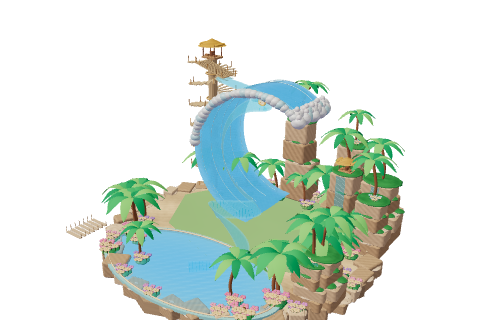
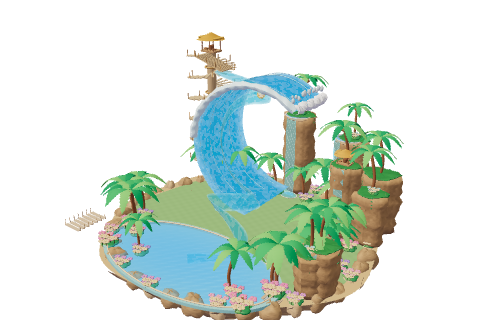
Connect cliff springs and keep departing guests exactly on their boat

Changed region(s): [[0.125, 0.0938, 0.8438, 1.0]]

diff --git a/public/showcase-water-props.js b/public/showcase-water-props.js
@@ -1,6 +1,8 @@
 import * as T from 'three';
 import {shape,line,torus,flowerCluster,teaPavilion,lantern,surfaceTexture} from './fantasy-scenery.js';
 import {showcaseWaterfallSteps as waterfallSteps} from './showcase-waterfalls.js';
+import {slideBasin} from './slide-water.js';
+import {slideBasinWater} from './slide-basin-optics.js';
 import {tropicalPalm,tropicalTree,flowerBank,sandstoneColumn,tropicalShore} from './showcase-water-landscape.js';
 const plankGeometry=new T.BoxGeometry(1,1,1);plankGeometry.userData.sharedScenery=true;
 const steel=new T.MeshStandardMaterial({color:0x789295,roughness:.35,metalness:.24});steel.userData.sharedScenery=true;
@@ -8,7 +10,7 @@ const crystalGeometry=new T.LatheGeometry([new T.Vector2(.72,-.5),new T.Vector2(
 // Distinct landscapes, authored against the actual route clearance. All helpers
 // build once into the existing material batch; waterfall buffers stay fixed.
 export function* showcaseProps(props,root,spec,route){
- const falls=[],obstacles=[],passages=[],margin=spec.radius+2.4,dry=[];for(const leg of route.legs)if(['board','climb'].includes(leg.phase))for(let i=0;i<=24;i++)dry.push(leg.fn(i/24).position);
+ const falls=[],springs=[],obstacles=[],passages=[],margin=spec.radius+2.4,dry=[];for(const leg of route.legs)if(['board','climb'].includes(leg.phase))for(let i=0;i<=24;i++)dry.push(leg.fn(i/24).position);
  const clear=(x,y,z,rx,ry,rz)=>!dry.some(p=>Math.abs(p[0]-x)<rx+4&&Math.abs(p[2]-z)<rz+4&&Math.abs(p[1]-y)<ry+3)&&!route.geometry.some(g=>g.samples.some((s,i)=>i%4===0&&Math.abs(s.p.x-x)<rx+margin&&Math.abs(s.p.z-z)<rz+margin&&Math.abs(s.p.y-spec.radius/2-y)<ry+margin));
  const solid=(kind,color,x,y,z,sx,sy,sz)=>{if(!clear(x,y,z,sx,sy,sz))return null;const m=shape(props,kind,color,x,y,z,sx,sy,sz);if(y-sy/2<1)obstacles.push({x,z,radius:Math.max(sx,sz)});return m;};
  const cliff=(x,z,h,r,color=0xc5aa83)=>{if(!clear(x,h/2,z,r,h/2,r))return false;sandstoneColumn(props,x,z,h,r,color);obstacles.push({x,z,radius:r*1.16});return true;};
@@ -21,7 +23,16 @@ export function* showcaseProps(props,root,spec,route){
  const bridge=(x,y,z,length=18,alongX=true)=>{const group=new T.Group();group.position.set(x,y,z);if(!alongX)group.rotation.y=Math.PI/2;props.add(group);shape(group,'cube',0xbf9766,0,0,0,length,.5,4.3);for(const side of [-1,1]){for(let i=0;i<=8;i++)shape(group,'pole',0xc79d65,-length/2+i*length/8,1,side*2,.15,2.4,.15);line(group,[-length/2,1.9,side*2],[length/2,1.9,side*2],0xd6b277,.14);}return group;};
  const crystal=(x,y,z,h,color)=>{const m=solid('cone',color,x,y+h/2,z,h*.19,h,h*.19);if(m){m.geometry=crystalGeometry;m.material=new T.MeshStandardMaterial({color,roughness:.18,metalness:.12,flatShading:true});m.rotation.z=(x%3-1)*.13;const small=shape(props,'cone',0xbba0f5,x+1.3,y+h*.25,z+.3,h*.10,h*.5,h*.1);small.geometry=crystalGeometry;small.material=m.material;}};
  const fall=function*(x,y,z,width,height){const f=yield*waterfallSteps(x,z,width,height,{color:0x3bd4ed});f.position.y+=y-.12;root.add(f);falls.push(f);};
- yield*tropicalShore(props,spec,clear,obstacles);
+ const cascades=yield*tropicalShore(props,spec,clear,obstacles);
+ for(const c of cascades){
+  for(const [x,z,rx,rz,surfaceY]of [[c.x,c.z,c.width*.78,3.1,.22],[...c.spring,c.radius,c.radius*.86,c.y+.16]]){
+   const pond=slideBasin({x,z,rx,rz,surfaceY,color:0x16c9ed});slideBasinWater(pond.userData.water);pond.userData.bed.material.color.setHex(0x8ad8f3);
+   pond.updateMatrix();for(const child of [...pond.children])if(child.material!==pond.userData.water){child.applyMatrix4(pond.matrix);props.add(child);}
+   root.add(pond);springs.push(pond);
+  }
+  yield*fall(c.x,c.y,c.z,c.width,c.y-.22);falls.at(-1).rotation.y=c.angle;
+  obstacles.push({x:c.x,z:c.z,radius:Math.max(c.width*.78,3.1)+.8});
+ }
  for(const [x,z,h,r]of [[-43,-34,18,8],[44,-34,24,8],[-47,10,14,6],[46,16,17,7]]){if(cliff(x,z,h,r)){palm(x,h,z,1.2);yield*fall(x,h,z+r*.85,3.4,h-1.45);}yield;}
  const builders={
   'barrel-wave':function*(){for(const [x,z]of [[-43,-5],[41,-5],[-34,25],[35,25]])palm(x,1,z,1.5);for(const [x,z]of [[-35,26],[36,28],[-25,-42],[30,-36]])if(clear(x,1,z,5,3,5))flowerBank(props,x,.3,z,0xf59bc8,1.1);for(const [x,z,h]of [[-36,-19,22],[35,-21,30]])if(cliff(x,z,h,6.2)){palm(x,h,z,1.25);teaPavilion(props,x,h+.7,z+1,0xe8bc64,2.0);yield*fall(x,h,z+5.3,4,h-1.45);}},
@@ -93,5 +104,5 @@ export function* showcaseProps(props,root,spec,route){
  // Independent dry queues and wide exits remain outside the water and scenery.
  for(let i=0;i<7;i++){shape(props,'cube',0xe9d7b3,-54,.25,28+i*2.1,9,.2,1.6);for(const side of [-1,1])shape(props,'pole',0xc2a16e,-54+side*4.8,1.2,28+i*2.1,.1,2.1,.1);}
  for(let i=0;i<8;i++)shape(props,'cube',0xdac5a2,route.pool[0]+route.pool[2]-2+i*.65,1.45-i*.17,route.pool[1],1.1,.23,4.8);
- return {groundObstacles:obstacles,waterfalls:falls,hollowPassages:passages,update(time,reduced){for(const f of falls)f.userData.update?.(time,reduced);}};
+ return {groundObstacles:obstacles,waterfalls:falls,springs,hollowPassages:passages,update(time,reduced){for(const f of falls)f.userData.update?.(time,reduced);for(const p of springs)p.userData.update(time,reduced);}};
 }

diff --git a/public/showcase-water-landscape.js b/public/showcase-water-landscape.js
@@ -81,6 +81,7 @@ export function sandstoneColumn(parent,x,z,height,radius,color=0xc5aa83) {
 }
 
 export function* tropicalShore(parent,spec,canPlace,obstacles) {
+  const cascades=[];
   // Irregular scalloped sandstone, warm sand, plant banks and a clear entrance.
   const outline=islandOutline(spec.kind),plate=new T.Shape(outline.map(p=>new T.Vector2(p.x,-p.y))),cap=new T.Mesh(new T.ShapeGeometry(plate),stonePaint(0xe7d3a6));cap.rotation.x=-Math.PI/2;cap.position.y=.02;cap.receiveShadow=true;parent.add(cap);
   const cliff=new T.Mesh(islandCliffGeometry(spec.kind),stonePaint(spec.kind==='canyon-rafting'?0xbf8f72:0xc4b195));cliff.castShadow=cliff.receiveShadow=true;parent.add(cliff);
@@ -97,6 +98,11 @@ export function* tropicalShore(parent,spec,canPlace,obstacles) {
     const h=rawHeight*heightScale;
     if(!canPlace(x,h/2,z,r,h/2,r))continue;
     sandstoneColumn(parent,x,z,h,r,spec.kind==='canyon-rafting'?0xbd8061:0xc5aa83);
+    const length=Math.hypot(x,z),nx=-x/length,nz=-z/length,fx=x+nx*r*1.12,fz=z+nz*r*1.12;
+    if(cascades.length<2&&canPlace(fx,.4,fz,4.2,1,3.4)){
+     const ledge=shape(parent,'stone',0xd4c1a3,x+nx*r*.2,h-.5,z+nz*r*.2,r,.5,r*.9);ledge.geometry=boulderGeometry(i);ledge.material=stonePaint(0xd4c1a3);
+     cascades.push({x:fx,z:fz,y:h,width:r*.72,angle:Math.atan2(nx,nz),spring:[x+nx*r*.35,z+nz*r*.35],radius:r*.8});
+    }
     obstacles.push({x,z,radius:r*1.16});
     if(garden)tropicalTree(parent,x,h+.5,z,12+(i%2)*2,true);else tropicalPalm(parent,x,h+.5,z,12+(i%2)*3,i);
     flowerBank(parent,x+1,h+.5,z+1,spec.accent,.6);
@@ -115,4 +121,5 @@ export function* tropicalShore(parent,spec,canPlace,obstacles) {
     if(canPlace(x,1,z,5,3,5))flowerBank(parent,x,.3,z,0xffa1c8,1.1);
     if(canPlace(x,4,z,1,4,1))lantern(parent,x,1,z,2.3,0xffd982);
   }
+  return cascades;
 }

diff --git a/public/group-boarding.js b/public/group-boarding.js
@@ -48,9 +48,11 @@ export function groupBoardingFrame(g,ticket,now,reduced=false) {
   const departed=ticket.seated&&group.departureAt!==null&&now>=group.departureAt;
   if(departed){ticket.routeOffset=route.boardingEnd;ticket.launchAt=group.departureAt;}
   ticket.elapsed=now<ticket.boardAt?null:departed?route.boardingEnd+(now-group.departureAt)/1000:seatTime;
-  const reaction={...(d.rideReaction?.(seatTime,reduced,ticket.lane)||{}),rideSit:reduced?0:smooth(u),weight:reduced?0:smooth(u)};
+  const current=departed?route.frame(ticket.elapsed,false,ticket.lane):seat,
+    reaction={...(d.rideReaction?.(ticket.elapsed??seatTime,reduced,ticket.lane)||{})};
+  if(!departed){reaction.rideSit=reduced?0:smooth(u);reaction.weight=reduced?0:smooth(u);}
   d.update?.(now/1000,reduced);
-  return {...seat,position,walking:u>0&&u<1,departed,reaction};
+  return {...current,position:departed?current.position:position,walking:departed?current.walking:u>0&&u<1,departed,reaction};
 }
 
 // Pure bounded selection: the world supplies its existing work/care/manual

diff --git a/public/showcase-waterfalls.js b/public/showcase-waterfalls.js
@@ -8,5 +8,6 @@ export function* showcaseWaterfallSteps(x,z,width,height,options){
  lines.geometry.setAttribute('aFallPhase',new T.InstancedBufferAttribute(Float32Array.from({length:18},(_,i)=>i*.24),1));
  lines.material.onBeforeCompile=shader=>{shader.uniforms.uFallTime=clock;shader.uniforms.uFallHeight={value:height};shader.vertexShader='attribute float aFallPhase;uniform float uFallTime;uniform float uFallHeight;\n'+shader.vertexShader.replace('#include <begin_vertex>','#include <begin_vertex>\ntransformed.y+=mod(aFallPhase,uFallHeight)-mod(uFallTime*2.1+aFallPhase,uFallHeight);');};
  lines.material.customProgramCacheKey=()=> 'showcase-waterfall-fixed-v1';
+ sheet.material.fragmentShader=sheet.material.fragmentShader.replace('vec3 color=mix(uColor*.42,vec3(.75,.97,1.0),.06+lace*.52);','vec3 color=mix(uColor*.78,vec3(.90,1.0,1.0),.12+lace*.66);');
  group.userData.update=(time,reduced=false)=>{clock.value=reduced?0:time;advanceWater(sheet.material,time,reduced);};return group;
 }
